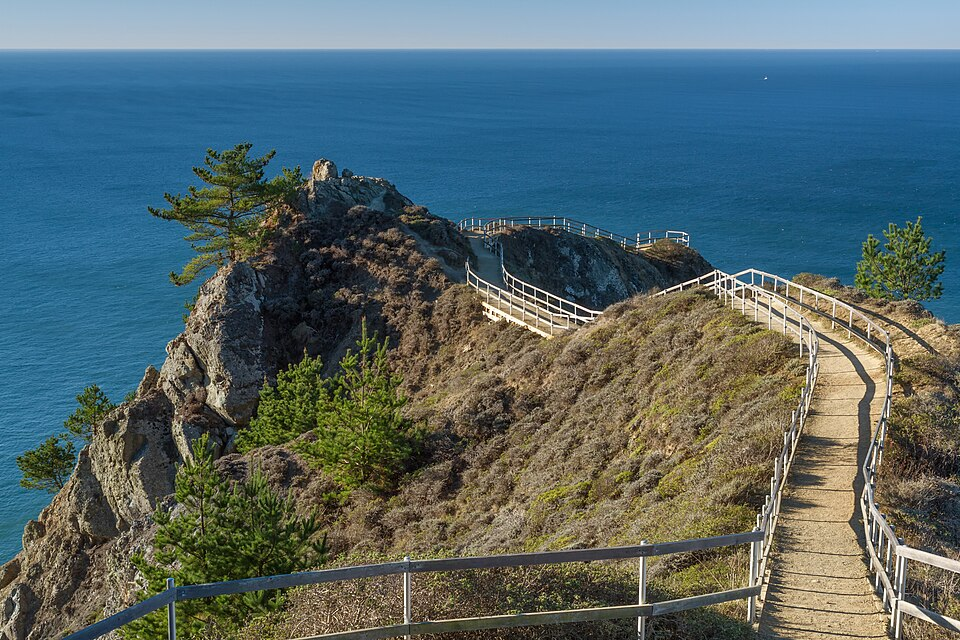
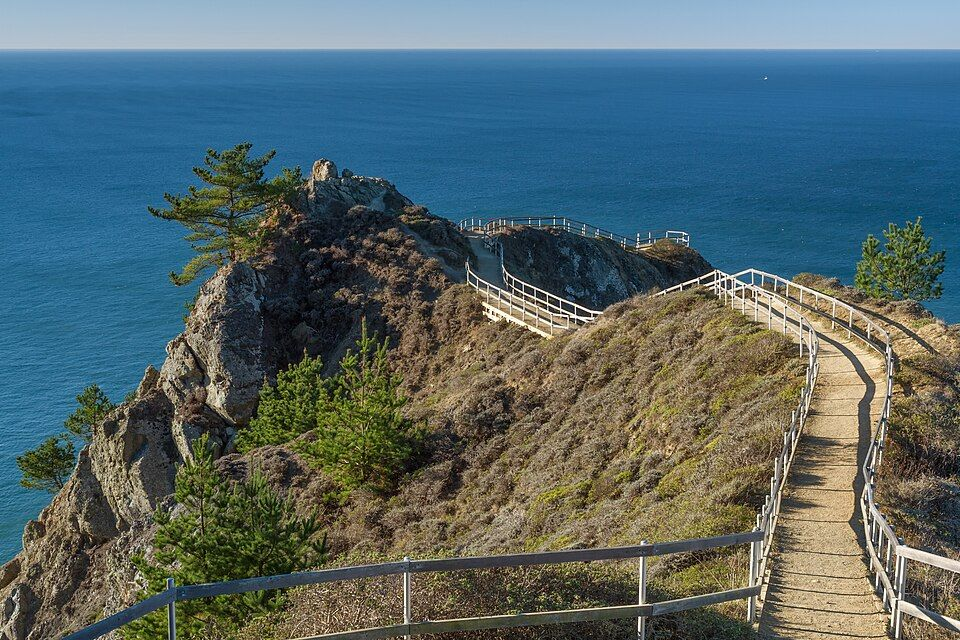
Back off on Wikimedia rate limits and shrink photos to 960px
Claude-Session: https://claude.ai/code/session_018C6dP8Y1ruHgeJFyZs399Q

Changed region(s): [[0.9375, 0.4375, 0.9688, 0.4688]]

diff --git a/scripts/fetch_photos.py b/scripts/fetch_photos.py
@@ -1,37 +1,64 @@
 """Download the Wikimedia Commons photos the site uses into site/photos/.
-Run by the Pages workflow; skips files that already exist."""
-import json, pathlib, re, time, urllib.request
+
+Run by the Pages workflow. Skips files that already exist, asks only for
+Wikimedia's standard thumbnail widths, backs off on HTTP 429, and re-encodes
+everything to at most 960 px wide so the page stays light."""
+import io, json, pathlib, re, time, urllib.error, urllib.request
+
+from PIL import Image
 
 ROOT = pathlib.Path(__file__).resolve().parent.parent
 SRC = json.loads((ROOT / "scripts" / "photo_sources.json").read_text())
 OUT = ROOT / "site" / "photos"
 OUT.mkdir(parents=True, exist_ok=True)
-UA = "OperationFogCity/1.0 (https://github.com/vosbek/trip-view; trip site)"
+UA = "OperationFogCity/1.0 (https://github.com/vosbek/trip-view; personal trip site) python-urllib"
+
+
+def candidates(url):
+    m = re.match(r"(https://upload\.wikimedia\.org/wikipedia/commons)/thumb/(.+?)/\d+px-[^/]+$", url)
+    if not m:
+        return [url]
+    name = url.rsplit("/", 1)[1].split("px-", 1)[1]
+    return [f"{m.group(1)}/thumb/{m.group(2)}/{w}px-{name}" for w in (960, 500)] + [f"{m.group(1)}/{m.group(2)}"]
+
+
+def fetch(url):
+    for attempt in range(6):
+        try:
+            req = urllib.request.Request(url, headers={"User-Agent": UA})
+            with urllib.request.urlopen(req, timeout=90) as r:
+                return r.read()
+        except urllib.error.HTTPError as e:
+            if e.code == 429:
+                wait = int(e.headers.get("Retry-After") or 0) or 20 * (attempt + 1)
+                print(f"  429, waiting {wait}s")
+                time.sleep(wait)
+                continue
+            raise
+    raise RuntimeError("still rate limited")
+
+
+def save(dest, data):
+    im = Image.open(io.BytesIO(data)).convert("RGB")
+    if im.width > 960:
+        im = im.resize((960, round(im.height * 960 / im.width)), Image.LANCZOS)
+    im.save(dest, "JPEG", quality=80, optimize=True, progressive=True)
+
+
 ok = fail = 0
 for key, url in sorted(SRC.items()):
     dest = OUT / f"{key}.jpg"
     if dest.exists() and dest.stat().st_size > 1000:
         continue
-    # Wikimedia only serves standard thumbnail widths; try 960, then 500, then the original.
-    cands = [url]
-    m = re.match(r"(https://upload\.wikimedia\.org/wikipedia/commons)/thumb/(.+?)/\d+px-[^/]+$", url)
-    if m:
-        name = url.rsplit("/", 1)[1].split("px-", 1)[1]
-        cands = [f"{m.group(1)}/thumb/{m.group(2)}/{w}px-{name}" for w in (960, 500)] + [f"{m.group(1)}/{m.group(2)}"]
-    for attempt in range(len(cands)):
-        url = cands[attempt]
+    for cand in candidates(url):
         try:
-            req = urllib.request.Request(url, headers={"User-Agent": UA})
-            with urllib.request.urlopen(req, timeout=60) as r:
-                data = r.read()
-            dest.write_bytes(data)
+            save(dest, fetch(cand))
             ok += 1
-            print("got", key, len(data) // 1024, "KB")
+            print("got", key, dest.stat().st_size // 1024, "KB")
             break
         except Exception as e:  # noqa: BLE001
-            print("next size", key, e)
-            time.sleep(1)
+            print("next size", key, str(e)[:120])
     else:
         fail += 1
-    time.sleep(0.5)
+    time.sleep(4)
 print(f"downloaded {ok}, failed {fail}")
